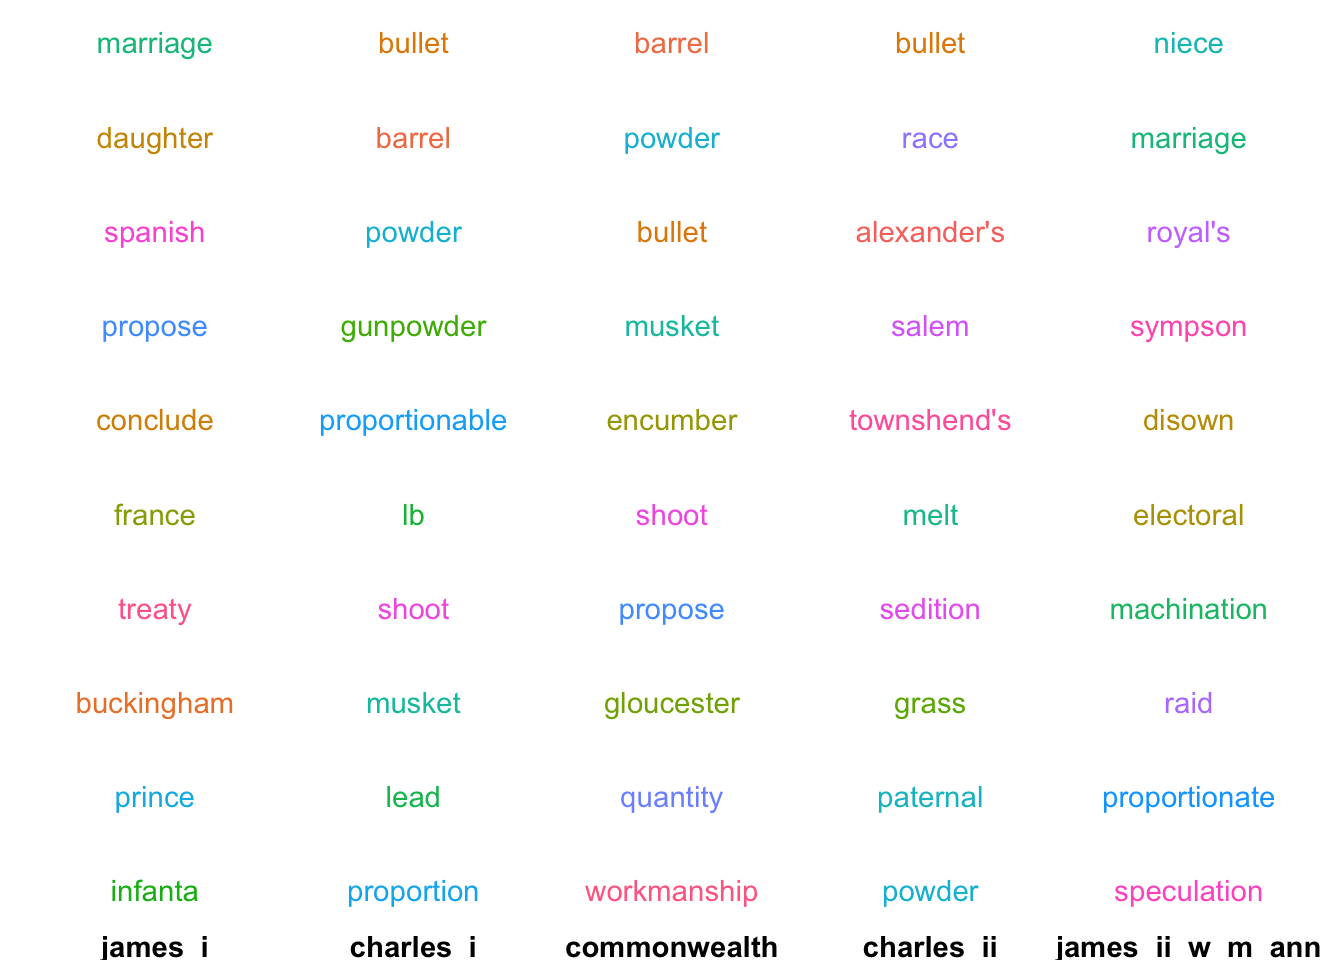
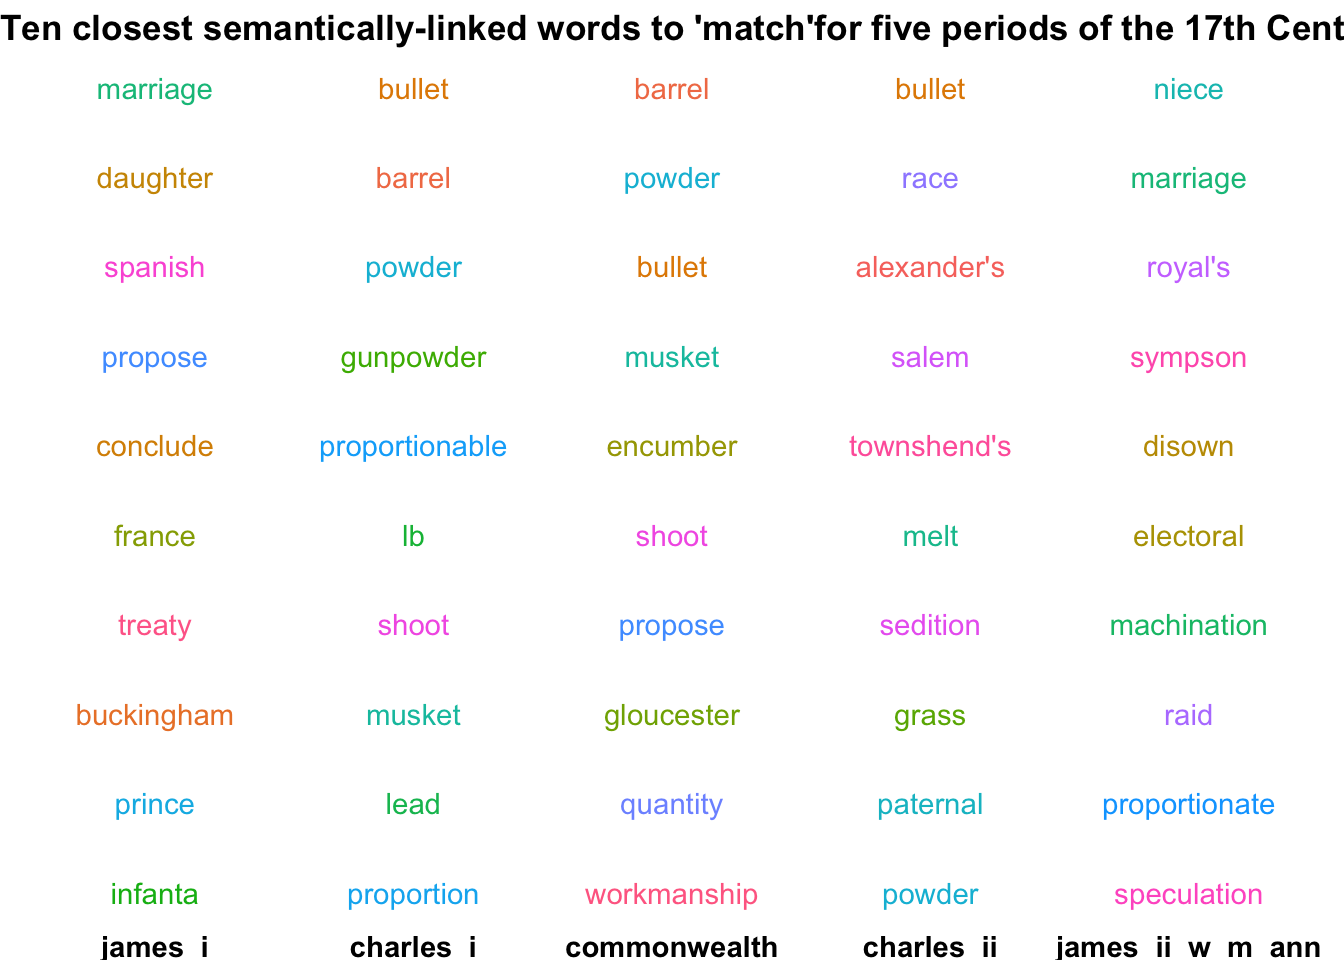
update

diff --git a/2021/04/14/representing-calendars-of-state-papers-with-word-vectors/index.html b/2021/04/14/representing-calendars-of-state-papers-with-word-vectors/index.html
@@ -62,7 +62,7 @@
 
   <article class="article">
     
-    <span class="article-duration">26 min read</span>
+    <span class="article-duration">25 min read</span>
     
 
     <h1 class="article-title">Representing Calendars of State Papers with Word Vectors</h1>
@@ -161,7 +161,7 @@ euc.dist(pointA, pointB)</code></pre>
 
 plot_ly(data = word_vectors_3d, x =  ~x, y = ~y,z =  ~z, text = ~word) %&gt;% add_markers() %&gt;% layout(title = &quot;3D Representation of Word Vectors&quot;)</code></pre>
 <div id="htmlwidget-1" style="width:672px;height:480px;" class="plotly html-widget"></div>
-<script type="application/json" data-for="htmlwidget-1">{"x":{"visdat":{"3547e4c000c":["function () ","plotlyVisDat"]},"cur_data":"3547e4c000c","attrs":{"3547e4c000c":{"x":{},"y":{},"z":{},"text":{},"alpha_stroke":1,"sizes":[10,100],"spans":[1,20],"type":"scatter3d","mode":"markers","inherit":true}},"layout":{"margin":{"b":40,"l":60,"t":25,"r":10},"title":"3D Representation of Word Vectors","scene":{"xaxis":{"title":"x"},"yaxis":{"title":"y"},"zaxis":{"title":"z"}},"hovermode":"closest","showlegend":false},"source":"A","config":{"showSendToCloud":false},"data":[{"x":[10,8,6,5,6,5,2,1],"y":[0,1,3,5,8,8,10,9],"z":[1,3,5,2,7,8,4,3],"text":["crufts","feed","cat","dog","mouse","rabbit","cape","hero"],"type":"scatter3d","mode":"markers","marker":{"color":"rgba(31,119,180,1)","line":{"color":"rgba(31,119,180,1)"}},"error_y":{"color":"rgba(31,119,180,1)"},"error_x":{"color":"rgba(31,119,180,1)"},"line":{"color":"rgba(31,119,180,1)"},"frame":null}],"highlight":{"on":"plotly_click","persistent":false,"dynamic":false,"selectize":false,"opacityDim":0.2,"selected":{"opacity":1},"debounce":0},"shinyEvents":["plotly_hover","plotly_click","plotly_selected","plotly_relayout","plotly_brushed","plotly_brushing","plotly_clickannotation","plotly_doubleclick","plotly_deselect","plotly_afterplot","plotly_sunburstclick"],"base_url":"https://plot.ly"},"evals":[],"jsHooks":[]}</script>
+<script type="application/json" data-for="htmlwidget-1">{"x":{"visdat":{"3e3d12126b7d":["function () ","plotlyVisDat"]},"cur_data":"3e3d12126b7d","attrs":{"3e3d12126b7d":{"x":{},"y":{},"z":{},"text":{},"alpha_stroke":1,"sizes":[10,100],"spans":[1,20],"type":"scatter3d","mode":"markers","inherit":true}},"layout":{"margin":{"b":40,"l":60,"t":25,"r":10},"title":"3D Representation of Word Vectors","scene":{"xaxis":{"title":"x"},"yaxis":{"title":"y"},"zaxis":{"title":"z"}},"hovermode":"closest","showlegend":false},"source":"A","config":{"showSendToCloud":false},"data":[{"x":[10,8,6,5,6,5,2,1],"y":[0,1,3,5,8,8,10,9],"z":[1,3,5,2,7,8,4,3],"text":["crufts","feed","cat","dog","mouse","rabbit","cape","hero"],"type":"scatter3d","mode":"markers","marker":{"color":"rgba(31,119,180,1)","line":{"color":"rgba(31,119,180,1)"}},"error_y":{"color":"rgba(31,119,180,1)"},"error_x":{"color":"rgba(31,119,180,1)"},"line":{"color":"rgba(31,119,180,1)"},"frame":null}],"highlight":{"on":"plotly_click","persistent":false,"dynamic":false,"selectize":false,"opacityDim":0.2,"selected":{"opacity":1},"debounce":0},"shinyEvents":["plotly_hover","plotly_click","plotly_selected","plotly_relayout","plotly_brushed","plotly_brushing","plotly_clickannotation","plotly_doubleclick","plotly_deselect","plotly_afterplot","plotly_sunburstclick"],"base_url":"https://plot.ly"},"evals":[],"jsHooks":[]}</script>
 <p>You can start to understand how the words now cluster together in the 3D plot: rabbit and mouse are clustered together, but now in the third dimension they are further away from dog. We can use the same formula as above to calculate these distances, just by adding the z coordinates to the pointA and pointB vectors:</p>
 <pre class="r"><code>pointA = c(word_vectors_3d$x[word_vectors_3d$word == &#39;dog&#39;], word_vectors_3d$y[word_vectors_3d$word == &#39;dog&#39;], word_vectors_3d$z[word_vectors_3d$word == &#39;dog&#39;])
 pointB = c(word_vectors_3d$x[word_vectors_3d$word == &#39;mouse&#39;], word_vectors_3d$y[word_vectors_3d$word == &#39;mouse&#39;], word_vectors_3d$z[word_vectors_3d$word == &#39;mouse&#39;])
@@ -169,8 +169,9 @@ pointB = c(word_vectors_3d$x[word_vectors_3d$word == &#39;mouse&#39;], word_vect
 euc.dist(pointA, pointB)</code></pre>
 <pre><code>## [1] 5.91608</code></pre>
 <p>The nice thing about the method is that while my brain starts to hurt when I think about more than three dimensions, the maths behind it doesn’t care: you can just keep plugging in longer and longer vectors and it’ll continue to calculate the distances as long as they are the same length. This means you can use this same formula not just when you have x and y coordinates, but also z, a, b, c, d, and so on for as long as you like. This is often called ‘representing words in multi-dimensional euclidean space’, or something similar which sounds great on grant applications but it’s really just doing some plotting and measuring distances. Which means that if you represent all the words in a corpus as a long vector (series of coordinates), you can quickly measure the distance between any two.</p>
-<div id="querying-the-vectors-using-math" class="section level4">
-<h4>Querying the Vectors Using Math</h4>
+</div>
+<div id="querying-the-vectors-using-math" class="section level3">
+<h3>Querying the Vectors Using Math</h3>
 <p>In a large corpus with a properly-constructed vector representation, the semantic relationships between the words start to represent some sort of meaning between words and concepts in the underlying source text. It’s quite easy to perform arithmetic on vectors: you can add, subtract, divide and multiply the vectors together to get new ones, and then find the closest words to those.</p>
 <p>Here, I’ve created a new vector, which is pointA - pointB (dog minus mouse). Then loop through each vector and calculate the distance, and display in a new dataframe:</p>
 <pre class="r"><code>pointC = pointA - pointB
@@ -197,10 +198,10 @@ df_for_results %&gt;% arrange(dist)</code></pre>
 ## 8 10.8  crufts</code></pre>
 <p>The closest to dog - mouse is hero, with this vector representation. In this very tiny dataset this is meaningless, but with a large trained set, as will be shown below, it can give really interesting results.</p>
 </div>
-<div id="from-vectors-to-word-embeddings" class="section level4">
-<h4>From Vectors to Word Embeddings</h4>
+<div id="from-vectors-to-word-embeddings" class="section level3">
+<h3>From Vectors to Word Embeddings</h3>
 <p>These vectors are also known as word embeddings. Real algorithms base the vectors on more sophisticated metrics than that I used above. Some, such as <a href="https://nlp.stanford.edu/projects/glove/">GloVe</a> record co-occurrence probabilities (the likelihood of every pair of words in a corpus to co-occur within a set ‘window’ of words either side), using a neural network, and pre-trained over enormous corpora of text. The resulting vectors are often used to represent the relationships between modern meanings of words, to <a href="https://dh2017.adho.org/abstracts/582/582.pdf">track semantic changes over time</a>, or to understand the history of <a href="https://ccdkconceptlab.wordpress.com/">concepts</a>, though it’s worth pointing out they’re only as representative as the corpus used (many use sources such as Wikipedia, or Reddit, mostly produced by white men and so there’s a danger of biases towards those groups).</p>
-<p>Word embeddings are often critiqued as reflecting or propogating bias (I highly recommend Kaspar Beelen’s post and tools to understand more about this) of their source texts. The source used here is a corpus consisting of the printed summaries of the Calendars of State Papers, which I’ve described in detail <a href="https://networkingarchives.github.io/blog/2021/04/14/text-mining/">here</a>. As such it is likely highly biased, but if the purpose of an analysis is historical, for example to understand how a concept was represented at a given time, by a specific group, in a particular body of text, the biases captured by word embeddings can be seen as a research strength rather than a weakness. The data is in no way representative of early modern text more generally, and, what’s more, the summaries were written in the 19th century and so will reflect what editors at the time thought was important. In these two ways, the corpus will reproduce a very particular wordview of a very specific group, at a very specific time. Because of this, can use the embeddings to get an idea of how certain words or ideas were semantically linked, <em>specifically in the corpus of calendar abstracts.</em> The data will not show us how early modern concepts were related, but it might show conceptual changes in words within the information apparatus of the state.</p>
+<p>Word embeddings are often critiqued as reflecting or propogating bias (I highly recommend Kaspar Beelen’s <a href="https://lab.kb.nl/about-us/blog/introduction-gender-bias-historical-newspapers">post</a> and <a href="https://github.com/KBNLresearch/WordEmbeddingPlayground">tools</a> to understand more about this) of their source texts. The source used here is a corpus consisting of the printed summaries of the Calendars of State Papers, which I’ve described in detail <a href="https://networkingarchives.github.io/blog/2021/04/14/text-mining/">here</a>. As such it is likely highly biased, but if the purpose of an analysis is historical, for example to understand how a concept was represented at a given time, by a specific group, in a particular body of text, the biases captured by word embeddings can be seen as a research strength rather than a weakness. The data is in no way representative of early modern text more generally, and, what’s more, the summaries were written in the 19th century and so will reflect what editors at the time thought was important. In these two ways, the corpus will reproduce a very particular wordview of a very specific group, at a very specific time. Because of this, can use the embeddings to get an idea of how certain words or ideas were semantically linked, <em>specifically in the corpus of calendar abstracts.</em> The data will not show us how early modern concepts were related, but it might show conceptual changes in words within the information apparatus of the state.</p>
 <p>The following instructions are adapted from the <a href="http://text2vec.org/glove.html">project vignette</a> and <a href="https://m-clark.github.io/text-analysis-with-R/word-embeddings.html">this tutorial</a>. First, tokenise all the abstract text and remove very common words called stop words:</p>
 <pre class="r"><code>library(text2vec)
 library(tidytext)
@@ -309,9 +310,9 @@ wv_main = glove$fit_transform(tcm, n_iter = 20, convergence_tol = 0.00001)</code
 # suggest the sum/mean may work better
 word_vectors = wv_main + t(wv_context)</code></pre>
 </div>
-<div id="results" class="section level4">
-<h4>Results</h4>
-<p>When it’s finished, write a small function which calculates and displays the closest words in distance to a given word. Instead of using the euclidean distance formula above, we calculate the <em>cosine similarity</em>, which measures the angular distance between the words (this is better because it <a href="https://cmry.github.io/notes/euclidean-v-cosine#:~:text=While%20cosine%20looks%20at%20the,though%20they%20were%20further%20away.">corrects for one word appearing many times and another appearing very infrequently</a>).</p>
+<div id="results" class="section level3">
+<h3>Results</h3>
+<p>The next step was to write a small function which calculates and displays the closest words to a given word, to make it easier to query the result. There’s an important change here: instead of using the euclidean distance formula above, distance is calculated using the <em>cosine similarity</em>, which measures the angular distance between the words (this is better because it <a href="https://cmry.github.io/notes/euclidean-v-cosine#:~:text=While%20cosine%20looks%20at%20the,though%20they%20were%20further%20away.">corrects for one word appearing many times and another appearing very infrequently</a>).</p>
 <pre class="r"><code>ten_closest_words = function(word){
 
 word_result = word_vectors[word, , drop = FALSE] 
@@ -365,23 +366,21 @@ head(sort(cos_sim[,1], decreasing = TRUE), 20)
 ##   religion ambassador      italy     tyrone    shortly     depart 
 ##  0.4794766  0.4543575  0.4483097  0.4387691  0.4326920  0.4322462</code></pre>
 </div>
-<div id="more-complex-vector-tasks" class="section level4">
-<h4>More Complex Vector Tasks</h4>
-<p>As well as finding the most similar words, we can also perform arithmetic on the vectors. What is the closest word to book and news:</p>
-<pre class="r"><code>sum = word_vectors[&quot;husband&quot;, , drop = F] -
- word_vectors[&quot;petition&quot;, , drop = F]
+<div id="more-complex-vector-tasks" class="section level3">
+<h3>More Complex Vector Tasks</h3>
+<p>As well as finding the most similar words, we can also perform arithmetic on the vectors. What are the closest words to <em>book</em> <strong>plus</strong> <em>news</em>?</p>
+<pre class="r"><code>sum = word_vectors[&quot;book&quot;, , drop = F] + 
+ word_vectors[&quot;news&quot;, , drop = F]
 
 cos_sim_test = sim2(x = word_vectors, y = sum, method = &quot;cosine&quot;, norm = &quot;l2&quot;)
 
 head(sort(cos_sim_test[,1], decreasing = T), 20)</code></pre>
-<pre><code>##  coarseness  relievable       broth         owl rushworth&#39;s    cloathes 
-##   0.4678656   0.4617825   0.4562565   0.4521938   0.4521481   0.4512532 
-##         gad      slatch    fosterer    hurley&#39;s   o&#39;neile&#39;s       sluis 
-##   0.4503194   0.4450165   0.4438963   0.4266353   0.4259293   0.4214021 
-##    plowland   innsbruck   uncharged  pardonable    milander    vanquish 
-##   0.4212738   0.4172199   0.4164849   0.4155880   0.4155654   0.4153549 
-##     caliver everlasting 
-##   0.4153530   0.4141557</code></pre>
+<pre><code>##       news       book     letter       send       hear    account    enclose 
+##  0.8023516  0.7977968  0.6997691  0.6924961  0.6700980  0.6693607  0.6689544 
+##      print      write     return       post       hope       hand    receive 
+##  0.6601502  0.6553503  0.6457852  0.6442256  0.6426027  0.6372307  0.6346641 
+##        day      bring       note    arrival williamson       week 
+##  0.6346036  0.6327272  0.6321395  0.6297362  0.6263445  0.6220473</code></pre>
 <p>It is also a way of finding analogies: so, for example, Paris - France + Germany should equal to ‘Berlin’, because Berlin is like the Paris of France. Is that what we get?</p>
 <pre class="r"><code>test = word_vectors[&quot;paris&quot;, , drop = F] -
   word_vectors[&quot;france&quot;, , drop = F] +
@@ -416,80 +415,50 @@ head(sort(cos_sim_test[,1], decreasing = T), 20)</code></pre>
 ##     0.4191993     0.4178388     0.4165598     0.4140450     0.4105902</code></pre>
 <p>Not bad - printer is in the top 20! The closest is ink, plus some other book-production-related words like stitch, ream, and pamphlet. Though some of these words can also be associated with manuscript production, we <em>could</em> be generous and say that they are sort of to a book as a pen is to a letter!</p>
 </div>
-<div id="change-in-semantic-relations-over-time" class="section level4">
-<h4>Change in Semantic Relations Over Time</h4>
+<div id="change-in-semantic-relations-over-time" class="section level3">
+<h3>Change in Semantic Relations Over Time</h3>
 <p>We can also look for change in semantic meaning over time. First, divide the text into four separate sections, one for each reign:</p>
-<pre class="r"><code>library(lubridate)</code></pre>
-<pre><code>## 
-## Attaching package: &#39;lubridate&#39;</code></pre>
-<pre><code>## The following objects are masked from &#39;package:base&#39;:
-## 
-##     date, intersect, setdiff, union</code></pre>
-<pre class="r"><code>james_i = withtext %&gt;% 
+<pre class="r"><code>library(lubridate)
+james_i = withtext %&gt;% 
   mutate(year = year(ymd(X4))) %&gt;% 
   filter(year %in% 1603:1624) %&gt;% 
   ungroup()  %&gt;% 
   select(document = X5, value, date = X3) %&gt;%
   unnest_tokens(word, value) %&gt;% 
   anti_join(stop_words) %&gt;% 
-  mutate(word = lemmatize_words(word)) %&gt;% filter(!str_detect(word, &quot;[0-9]{1,}&quot;))</code></pre>
-<pre><code>## Warning: Problem with `mutate()` input `year`.
-## ℹ  24 failed to parse.
-## ℹ Input `year` is `year(ymd(X4))`.</code></pre>
-<pre><code>## Warning: 24 failed to parse.</code></pre>
-<pre><code>## Joining, by = &quot;word&quot;</code></pre>
-<pre class="r"><code>charles_i = withtext %&gt;% 
+  mutate(word = lemmatize_words(word)) %&gt;% filter(!str_detect(word, &quot;[0-9]{1,}&quot;))
+
+charles_i = withtext %&gt;% 
   mutate(year = year(ymd(X4))) %&gt;% 
   filter(year %in% 1625:1648) %&gt;% 
   ungroup()  %&gt;% 
   select(document = X5, value, date = X3) %&gt;%
   unnest_tokens(word, value) %&gt;% anti_join(stop_words)%&gt;% 
-  mutate(word = lemmatize_words(word)) %&gt;% filter(!str_detect(word, &quot;[0-9]{1,}&quot;))</code></pre>
-<pre><code>## Warning: Problem with `mutate()` input `year`.
-## ℹ  24 failed to parse.
-## ℹ Input `year` is `year(ymd(X4))`.
+  mutate(word = lemmatize_words(word)) %&gt;% filter(!str_detect(word, &quot;[0-9]{1,}&quot;))
 
-## Warning:  24 failed to parse.</code></pre>
-<pre><code>## Joining, by = &quot;word&quot;</code></pre>
-<pre class="r"><code>commonwealth = withtext %&gt;% 
+commonwealth = withtext %&gt;% 
   mutate(year = year(ymd(X4))) %&gt;% 
   filter(year %in% 1649:1659) %&gt;% 
   ungroup()  %&gt;% 
   select(document = X5, value, date = X3) %&gt;%
   unnest_tokens(word, value) %&gt;% anti_join(stop_words)%&gt;% 
-  mutate(word = lemmatize_words(word)) %&gt;% filter(!str_detect(word, &quot;[0-9]{1,}&quot;))</code></pre>
-<pre><code>## Warning: Problem with `mutate()` input `year`.
-## ℹ  24 failed to parse.
-## ℹ Input `year` is `year(ymd(X4))`.
+  mutate(word = lemmatize_words(word)) %&gt;% filter(!str_detect(word, &quot;[0-9]{1,}&quot;))
 
-## Warning:  24 failed to parse.</code></pre>
-<pre><code>## Joining, by = &quot;word&quot;</code></pre>
-<pre class="r"><code>charles_ii = withtext %&gt;% 
+charles_ii = withtext %&gt;% 
   mutate(year = year(ymd(X4))) %&gt;% 
   filter(year %in% 1660:1684) %&gt;% 
   ungroup()  %&gt;% 
   select(document = X5, value, date = X3) %&gt;%
   unnest_tokens(word, value) %&gt;% anti_join(stop_words)%&gt;% 
-  mutate(word = lemmatize_words(word)) %&gt;% filter(!str_detect(word, &quot;[0-9]{1,}&quot;))</code></pre>
-<pre><code>## Warning: Problem with `mutate()` input `year`.
-## ℹ  24 failed to parse.
-## ℹ Input `year` is `year(ymd(X4))`.
+  mutate(word = lemmatize_words(word)) %&gt;% filter(!str_detect(word, &quot;[0-9]{1,}&quot;))
 
-## Warning:  24 failed to parse.</code></pre>
-<pre><code>## Joining, by = &quot;word&quot;</code></pre>
-<pre class="r"><code>james_ii_w_m_ann = withtext %&gt;% 
+james_ii_w_m_ann = withtext %&gt;% 
   mutate(year = year(ymd(X4))) %&gt;% 
   filter(year %in% 1685:1714) %&gt;% 
   ungroup()  %&gt;% 
   select(document = X5, value, date = X3) %&gt;%
   unnest_tokens(word, value) %&gt;% anti_join(stop_words) %&gt;% 
   mutate(word = lemmatize_words(word)) %&gt;% filter(!str_detect(word, &quot;[0-9]{1,}&quot;))</code></pre>
-<pre><code>## Warning: Problem with `mutate()` input `year`.
-## ℹ  24 failed to parse.
-## ℹ Input `year` is `year(ymd(X4))`.
-
-## Warning:  24 failed to parse.</code></pre>
-<pre><code>## Joining, by = &quot;word&quot;</code></pre>
 <p>Now run the same scripts as above, on each of these sections:</p>
 <pre class="r"><code>james_i_words_ls = list(james_i$word)
 it = itoken(james_i_words_ls, progressbar = FALSE)
@@ -733,10 +702,13 @@ head(sort(cos_sim[,1], decreasing = TRUE), 20)
   group_by(reign) %&gt;% 
   mutate(rank = rank(value)) %&gt;% 
   ggplot() + 
-  geom_text(aes(x = factor(reign, levels = c(&#39;james_i&#39;, &#39;charles_i&#39;, &#39;commonwealth&#39;, &#39;charles_ii&#39;, &#39;james_ii&#39;, &#39;james_ii_w_m_ann&#39;)), y = rank, label = name, color = name)) + theme_void() +
+  geom_text(aes(x = factor(reign, levels = c(&#39;james_i&#39;, &#39;charles_i&#39;, &#39;commonwealth&#39;, &#39;charles_ii&#39;, &#39;james_ii&#39;, &#39;james_ii_w_m_ann&#39;)), y = rank, label = name, color = name)) + 
+    theme_void() +
   theme(legend.position = &#39;none&#39;, 
-        axis.text.x = element_text(face = &#39;bold&#39;), 
-        ) 
+        axis.text.x = element_text(face = &#39;bold&#39;),
+        title = element_text(face = &#39;bold&#39;)
+        ) + 
+    labs(title = paste0(&quot;Ten closest semantically-linked words to &#39;&quot;, word,&quot;&#39;&quot;, subtitle =  &quot;for five periods of the 17th Century&quot;))
   
   }</code></pre>
 <p>This can show us the changing associations of particular words over time. Take ‘match’:</p>
@@ -744,17 +716,16 @@ head(sort(cos_sim[,1], decreasing = TRUE), 20)
 <p><img src="https://networkingarchives.github.io/blog/2021/04/14/representing-calendars-of-state-papers-with-word-vectors/index_files/figure-html/unnamed-chunk-36-1.png" width="672" /></p>
 <p>In the reign of James I, ‘match’ is semantically linked to words relating to the <a href="https://en.wikipedia.org/wiki/Spanish_match">Spanish Match</a>: a proposed match between Charles I and the Infanta Maria Anna of Spain. During Charles I’s reign and afterwards, the meaning changes completely - now the closest words are all military. In the final section of the data, the semantic link returns again to mostly words about marriage - this time it’s not so obvious why the words are associated, but it’s probably relating to the marriage of Philippe II, Duke of Orléans to Françoise Marie de Bourbon, in 1692 - Philippe II was regent of France until 1723.</p>
 </div>
-<div id="conclusions" class="section level4">
-<h4>Conclusions</h4>
+<div id="conclusions" class="section level3">
+<h3>Conclusions</h3>
 <p>The word embeddings trained on the text of the Calendars have shown how certain words related to particular topics. We’ve seen that it often produces expected results (such as <em>King</em> being closest to <em>Majesty</em>), even in complex tasks: with the analogy pen is to letter as X is to book, X is replaced by <em>ink</em>, <em>printer</em>, <em>pamphlet</em>, and some other relevant book-production words. Certain words can be seen to change over time: <em>match</em> is a good example, which is linked to marriage at some times, and weaponry at others, depending on the time period. Many of these word associations reflect biases in the data, but in certain circumstances this can be a strength rather than a weakness. The danger is not investigating the biases, but rather when we are reductive and try to claim that the word associations seen here are in any way representative of how society at large thought about these concepts more generally. On their own terms, the embeddings can be a powerful historical tool to understand the linked meanings within a discrete set of sources.</p>
 </div>
-<div id="further-reading" class="section level4">
-<h4>Further Reading</h4>
+<div id="further-reading" class="section level3">
+<h3>Further Reading</h3>
 <p><a href="https://www.wwp.northeastern.edu/outreach/seminars/wem_2019-07/presentations/word_vectors/word_vectors_intro_lecture.xhtml">Good basic introduction to word vectors</a></p>
 <p><a href="https://dhh.uni.lu/2018/12/11/word-embeddings-in-humanities/">Word Embeddings in Humanities</a></p>
 <p><a href="https://lab.kb.nl/about-us/blog/introduction-gender-bias-historical-newspapers">Gender bias in historical newspapers</a></p>
 <p><a href="https://nlp.stanford.edu/projects/histwords/">HistWords:Word Embeddings for Historical Text</a></p>
-</div>
 </div>
 
     </div>
